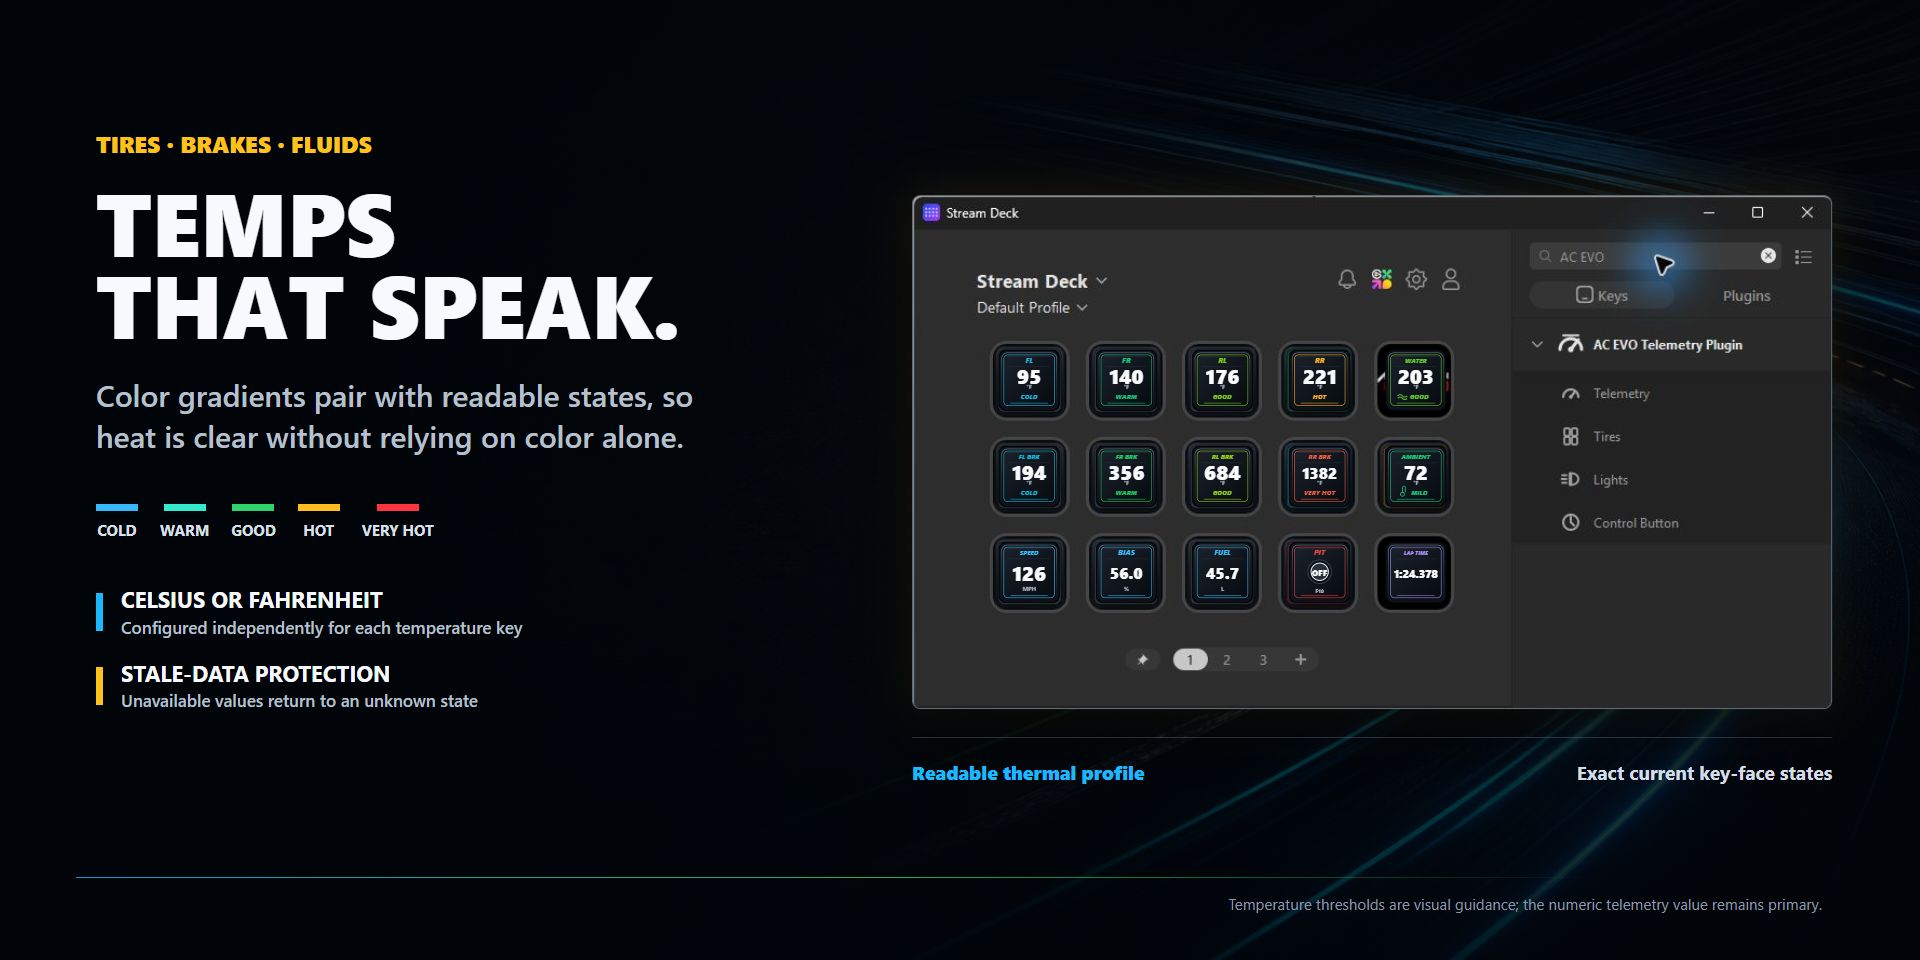
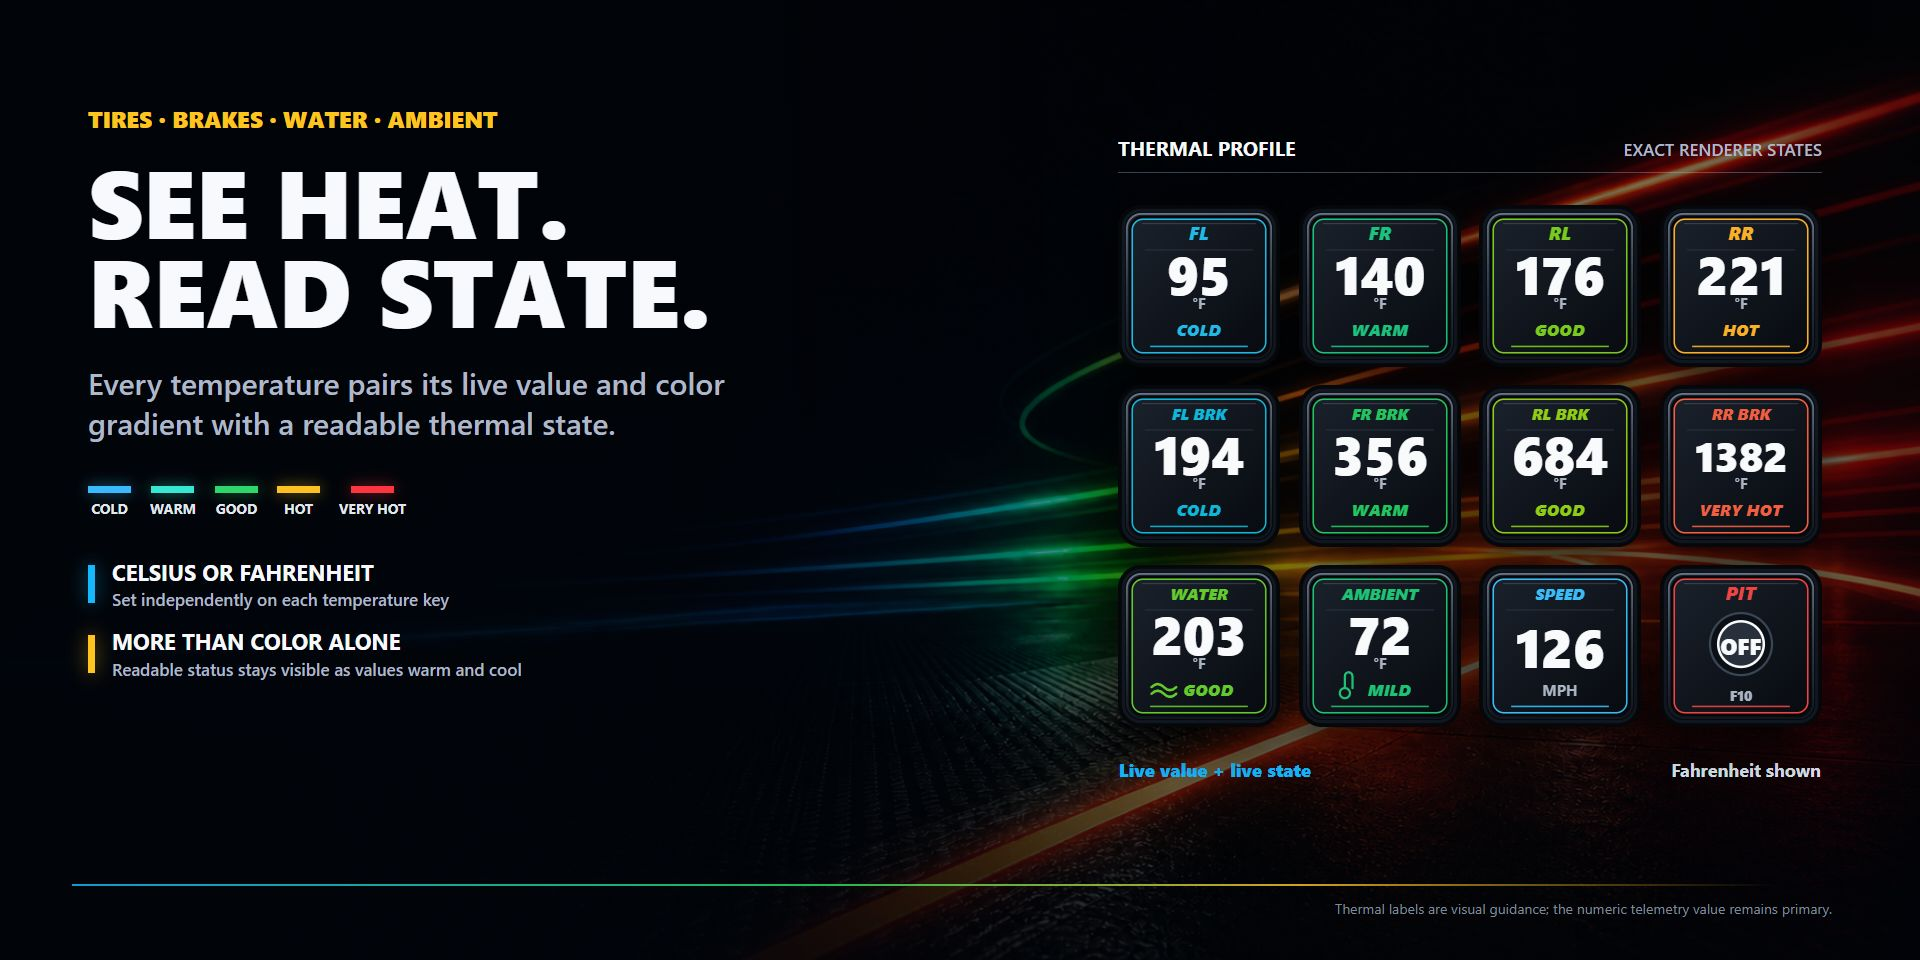
Publish redesigned Marketplace artwork

diff --git a/index.html b/index.html
@@ -948,7 +948,7 @@
 
     <header class="masthead" id="top">
       <h1 class="visually-hidden">AC EVO Telemetry Plugin Support</h1>
-      <img class="hero-art" src="assets/marketplace-thumbnail.png?v=20260822a" width="1920" height="960" alt="AC EVO Telemetry Plugin Marketplace artwork showing the real Stream Deck App, the four grouped plugin actions, and a representative live 5 by 3 software profile">
+      <img class="hero-art" src="assets/marketplace-thumbnail.png?v=20260822v3" width="1920" height="960" alt="AC EVO Telemetry Plugin artwork showing a labeled 4 by 3 sample profile built from current live key faces">
       <div class="hero-support-band">
         <div class="wrap hero-support-inner">
           <p class="hero-support-copy"><strong>Support Center</strong>Setup, diagnostics, privacy, and issue reporting for the unofficial community plugin.</p>
@@ -1032,28 +1032,28 @@
       <section class="wrap" id="plugin-views">
         <div class="section-heading">
           <h2>Product Views</h2>
-          <p>Real Stream Deck App views composed with exact key faces exported from the current plugin renderer, followed by direct captures of per-key configuration.</p>
+          <p>Generated racing artwork composed with exact key faces and action icons exported from the current plugin, followed by direct captures of per-key configuration.</p>
         </div>
 
         <div class="gallery-grid">
           <figure class="gallery-item">
-            <img src="assets/gallery-live-dashboard.png?v=20260822a" width="1920" height="960" alt="Real Stream Deck App view with current AC EVO plugin key faces for lap timing, speed, fuel, position, temperatures, lights, and controls">
+            <img src="assets/gallery-live-dashboard.png?v=20260822v3" width="1920" height="960" alt="Labeled 4 by 3 sample profile with current AC EVO plugin key faces for lap timing, speed, fuel, position, temperatures, lights, and controls">
             <figcaption>
               <span class="caption-index">VIEW 01</span>
               <b>Live race dashboard</b>
-              <p>Timing, temperatures, position, lights, and controls use exact current key-face exports inside the real Stream Deck App.</p>
+              <p>Timing, temperatures, position, lights, and controls use exact key faces from the current plugin renderer.</p>
             </figcaption>
           </figure>
           <figure class="gallery-item">
-            <img src="assets/gallery-thermal.png?v=20260822a" width="1920" height="960" alt="Real Stream Deck App view showing tire, brake, water, and ambient values with readable COLD, WARM, GOOD, HOT, and VERY HOT thermal states">
+            <img src="assets/gallery-thermal.png?v=20260822v3" width="1920" height="960" alt="Current tire, brake, water, and ambient key faces with readable COLD, WARM, GOOD, HOT, and VERY HOT thermal states">
             <figcaption>
               <span class="caption-index">VIEW 02</span>
               <b>Thermal awareness</b>
-              <p>Each live value pairs its thermal gradient with a readable COLD, WARM, GOOD, HOT, or VERY HOT state.</p>
+              <p>Each live value pairs its thermal gradient with a readable state; tire, brake, and fluid keys use COLD through VERY HOT bands.</p>
             </figcaption>
           </figure>
           <figure class="gallery-item">
-            <img src="assets/gallery-controls.png?v=20260822a" width="1920" height="960" alt="Real Stream Deck App view with the exact filtered Telemetry, Tires, Lights, and Control Button action list and representative live key states">
+            <img src="assets/gallery-controls.png?v=20260822v3" width="1920" height="960" alt="The exact four visible Telemetry, Tires, Lights, and Control Button actions with representative current control key faces">
             <figcaption>
               <span class="caption-index">VIEW 03</span>
               <b>Four grouped actions</b>
